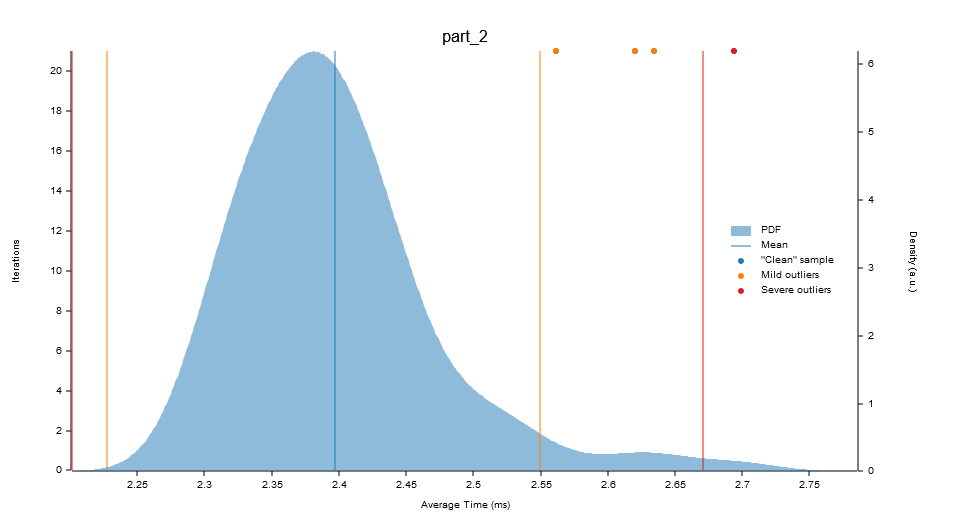
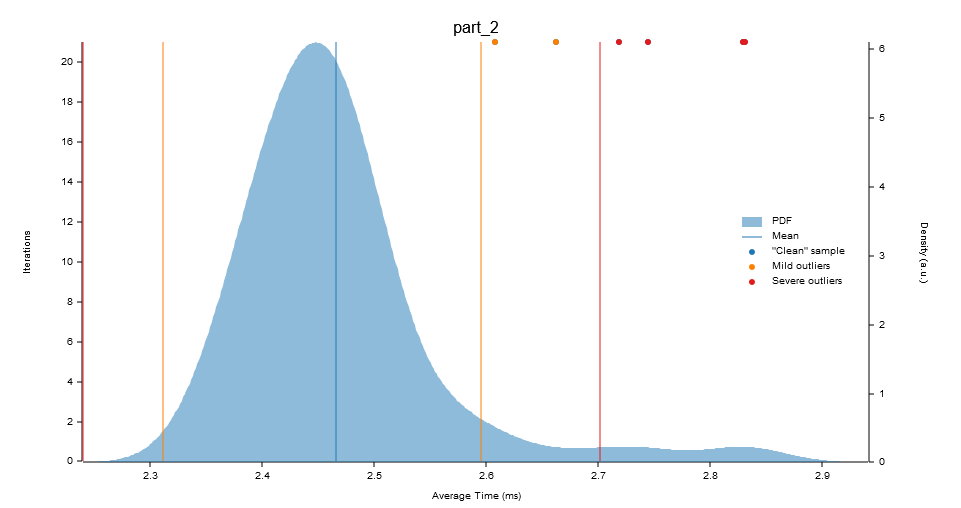
?

diff --git a/2022/day8/README.md b/2022/day8/README.md
@@ -3,7 +3,7 @@
 **Part 1**
 
 ```
-time:   [137.70 µs 138.40 µs 139.12 µs]
+time:   [1.5030 ms 1.5123 ms 1.5226 ms]
 ```
 
 ![](img/part_1.png)
@@ -11,7 +11,7 @@ time:   [137.70 µs 138.40 µs 139.12 µs]
 **Part 2**
 
 ```
-time:   [132.74 µs 133.60 µs 134.49 µs]
+time:   [2.4500 ms 2.4658 ms 2.4833 ms]
 ```
 
 ![](img/part_2.png)
